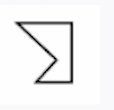
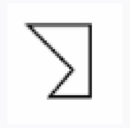
captured, updated, resized, coded and added to scripts 64 images in rotation test part 1

Changed region(s): [[0.1053, 0.1636, 0.7105, 0.7909]]

diff --git a/front-end/src/pages/rotation-test-part-1.js b/front-end/src/pages/rotation-test-part-1.js
@@ -1,0 +1,193 @@
+import React, { useState } from "react";
+import { useNavigate } from "react-router-dom";
+import '../components/styles_css/PageStyle.css'; 
+import '../components/styles_css/RotationTestStyle.css';
+
+import Part1Question1 from '../images/rotation_test/rotation-test-part-1/question-1/part-1-question-1.png';
+import Part1Question1Answer1Option1 from '../images/rotation_test/rotation-test-part-1/question-1/answer-1.png'; 
+import Part1Question1Answer1Option2 from '../images/rotation_test/rotation-test-part-1/question-1/answer-2.png'; 
+import Part1Question1Answer1Option3 from '../images/rotation_test/rotation-test-part-1/question-1/answer-3.png'; 
+import Part1Question1Answer1Option4 from '../images/rotation_test/rotation-test-part-1/question-1/answer-4.png'; 
+import Part1Question1Answer1Option5 from '../images/rotation_test/rotation-test-part-1/question-1/answer-5.png'; 
+import Part1Question1Answer1Option6 from '../images/rotation_test/rotation-test-part-1/question-1/answer-6.png'; 
+import Part1Question1Answer1Option7 from '../images/rotation_test/rotation-test-part-1/question-1/answer-7.png'; 
+import Part1Question1Answer1Option8 from '../images/rotation_test/rotation-test-part-1/question-1/answer-8.png'; 
+
+import Part1Question2 from '../images/rotation_test/rotation-test-part-1/question-2/part-1-question-2.png';
+import Part1Question2Answer1Option1 from '../images/rotation_test/rotation-test-part-1/question-2/answer-1.png'; 
+import Part1Question2Answer1Option2 from '../images/rotation_test/rotation-test-part-1/question-2/answer-2.png'; 
+import Part1Question2Answer1Option3 from '../images/rotation_test/rotation-test-part-1/question-2/answer-3.png'; 
+import Part1Question2Answer1Option4 from '../images/rotation_test/rotation-test-part-1/question-2/answer-4.png'; 
+import Part1Question2Answer1Option5 from '../images/rotation_test/rotation-test-part-1/question-2/answer-5.png'; 
+import Part1Question2Answer1Option6 from '../images/rotation_test/rotation-test-part-1/question-2/answer-6.png'; 
+import Part1Question2Answer1Option7 from '../images/rotation_test/rotation-test-part-1/question-2/answer-7.png'; 
+import Part1Question2Answer1Option8 from '../images/rotation_test/rotation-test-part-1/question-2/answer-8.png'; 
+
+import Part1Question3 from '../images/rotation_test/rotation-test-part-1/question-3/part-1-question-3.png';
+import Part1Question3Answer1Option1 from '../images/rotation_test/rotation-test-part-1/question-3/answer-1.png'; 
+import Part1Question3Answer1Option2 from '../images/rotation_test/rotation-test-part-1/question-3/answer-2.png'; 
+import Part1Question3Answer1Option3 from '../images/rotation_test/rotation-test-part-1/question-3/answer-3.png'; 
+import Part1Question3Answer1Option4 from '../images/rotation_test/rotation-test-part-1/question-3/answer-4.png'; 
+import Part1Question3Answer1Option5 from '../images/rotation_test/rotation-test-part-1/question-3/answer-5.png'; 
+import Part1Question3Answer1Option6 from '../images/rotation_test/rotation-test-part-1/question-3/answer-6.png'; 
+import Part1Question3Answer1Option7 from '../images/rotation_test/rotation-test-part-1/question-3/answer-7.png'; 
+import Part1Question3Answer1Option8 from '../images/rotation_test/rotation-test-part-1/question-3/answer-8.png';
+
+
+import Part1Question4 from '../images/rotation_test/rotation-test-part-1/question-4/part-1-question-4.png';
+import Part1Question4Answer1Option1 from '../images/rotation_test/rotation-test-part-1/question-4/answer-1.png'; 
+import Part1Question4Answer1Option2 from '../images/rotation_test/rotation-test-part-1/question-4/answer-2.png'; 
+import Part1Question4Answer1Option3 from '../images/rotation_test/rotation-test-part-1/question-4/answer-3.png'; 
+import Part1Question4Answer1Option4 from '../images/rotation_test/rotation-test-part-1/question-4/answer-4.png'; 
+import Part1Question4Answer1Option5 from '../images/rotation_test/rotation-test-part-1/question-4/answer-5.png'; 
+import Part1Question4Answer1Option6 from '../images/rotation_test/rotation-test-part-1/question-4/answer-6.png'; 
+import Part1Question4Answer1Option7 from '../images/rotation_test/rotation-test-part-1/question-4/answer-7.png'; 
+import Part1Question4Answer1Option8 from '../images/rotation_test/rotation-test-part-1/question-4/answer-8.png'; 
+
+import Part1Question5 from '../images/rotation_test/rotation-test-part-1/question-5/part-1-question-5.png';
+import Part1Question5Answer1Option1 from '../images/rotation_test/rotation-test-part-1/question-5/answer-1.png'; 
+import Part1Question5Answer1Option2 from '../images/rotation_test/rotation-test-part-1/question-5/answer-2.png'; 
+import Part1Question5Answer1Option3 from '../images/rotation_test/rotation-test-part-1/question-5/answer-3.png'; 
+import Part1Question5Answer1Option4 from '../images/rotation_test/rotation-test-part-1/question-5/answer-4.png'; 
+import Part1Question5Answer1Option5 from '../images/rotation_test/rotation-test-part-1/question-5/answer-5.png'; 
+import Part1Question5Answer1Option6 from '../images/rotation_test/rotation-test-part-1/question-5/answer-6.png'; 
+import Part1Question5Answer1Option7 from '../images/rotation_test/rotation-test-part-1/question-5/answer-7.png'; 
+import Part1Question5Answer1Option8 from '../images/rotation_test/rotation-test-part-1/question-5/answer-8.png';
+
+import Timer from "../components/Timer"; 
+import '../components/styles_css/PageStyle.css'; 
+
+const RotationTestPart1 = () => {
+    const navigate = useNavigate();
+
+    // State to manage timer visibility
+    const [timerVisible, setTimerVisible] = useState(true);
+
+    const handleNext = () => {
+        navigate("/proceed-to-part2");
+    };
+
+    const handleTimerCompletion = () => {
+        // setTimerVisible(false); 
+        navigate("/proceed-to-part2"); //if a breather is needed in between we can add it 
+    };
+
+    const question1 = Part1Question1; 
+    const question1Answers = [
+        Part1Question1Answer1Option1, Part1Question1Answer1Option2, Part1Question1Answer1Option3, Part1Question1Answer1Option4, 
+        Part1Question1Answer1Option5, Part1Question1Answer1Option6, Part1Question1Answer1Option7, Part1Question1Answer1Option8
+    ];
+
+    const question2 = Part1Question2; 
+    const question2Answers = [
+        Part1Question2Answer1Option1, Part1Question2Answer1Option2, Part1Question2Answer1Option3, Part1Question2Answer1Option4,
+        Part1Question2Answer1Option5, Part1Question2Answer1Option6, Part1Question2Answer1Option7, Part1Question2Answer1Option8
+    ];
+
+    const question3 = Part1Question3; 
+    const question3Answers = [
+        Part1Question3Answer1Option1, Part1Question3Answer1Option2, Part1Question3Answer1Option3, Part1Question3Answer1Option4,
+        Part1Question3Answer1Option5, Part1Question3Answer1Option6, Part1Question3Answer1Option7, Part1Question3Answer1Option8
+    ];
+
+    const question4 = Part1Question4; 
+    const question4Answers = [
+        Part1Question4Answer1Option1, Part1Question4Answer1Option2, Part1Question4Answer1Option3, Part1Question4Answer1Option4,
+        Part1Question4Answer1Option5, Part1Question4Answer1Option6, Part1Question4Answer1Option7, Part1Question4Answer1Option8
+    ];
+
+    const question5 = Part1Question5; 
+    const question5Answers = [
+        Part1Question5Answer1Option1, Part1Question5Answer1Option2, Part1Question5Answer1Option3, Part1Question5Answer1Option4,
+        Part1Question5Answer1Option5, Part1Question5Answer1Option6, Part1Question5Answer1Option7, Part1Question5Answer1Option8
+    ];
+
+    const [answers, setAnswers] = useState({
+        question1: Array(question1Answers.length).fill(null),
+        question2: Array(question2Answers.length).fill(null),
+        question3: Array(question3Answers.length).fill(null),
+        question4: Array(question4Answers.length).fill(null),
+        question5: Array(question5Answers.length).fill(null),
+    });
+
+    const handleAnswerChange = (questionNumber, index, value) => {
+        const newAnswers = { ...answers };
+        newAnswers[questionNumber][index] = value;
+        setAnswers(newAnswers);
+    };    
+
+    const allAnswered = Object.values(answers).every(question => question.every(answer => answer !== null));
+
+    const renderQuestion = (questionImage, answerImages, questionNumber) => (
+        <>
+            <div className="question-image-container">
+                <img src={questionImage} alt={`Question ${questionNumber}`} className="question-main-image" />
+            </div>
+            <table className="answers-table">
+                <thead>
+                    <tr>
+                        <th></th> {/* Empty header for the labels 'Same' and 'Different' */}
+                        {answerImages.map((imgSrc, index) => (
+                            <th key={`header-${index}`}>
+                                <img src={imgSrc} alt={`Answer ${index + 1}`} />
+                            </th>
+                        ))}
+                    </tr>
+                </thead>
+                <tbody>
+                    <tr>
+                        <td>Same</td>
+                        {answerImages.map((_, index) => (
+                            <td key={`same-${index}`}>
+                                    <input type="radio" name={`question${questionNumber}answer${index + 1}`} value="same"
+                                        onChange={() => handleAnswerChange(`question${questionNumber}`, index, 'same')} />
+                            </td>
+                        ))}
+                    </tr>
+                    <tr>
+                        <td>Different</td>
+                        {answerImages.map((_, index) => (
+                            <td key={`different-${index}`}>
+                                <input type="radio" name={`question${questionNumber}answer${index + 1}`} value="different" 
+                                    onChange={() => handleAnswerChange(`question${questionNumber}`, index, 'different')} />
+                            </td>
+                        ))}
+                    </tr>
+                </tbody>
+            </table>
+        </>
+    ); 
+
+    return (
+        <div className="container">
+            <br />
+            <h2>Rotation Test Part 1: 3 minutes</h2>
+            <br />
+            {timerVisible && <Timer initialTime={180} onCompletion={handleTimerCompletion} />}
+            <br />
+            <br />
+                {renderQuestion(question1, question1Answers, 1)}
+            <br />
+            <br />
+                {renderQuestion(question2, question2Answers, 2)}
+            <br />
+            <br />
+                {renderQuestion(question3, question3Answers, 3)}
+            <br />
+            <br />
+                {renderQuestion(question4, question4Answers, 4)}
+            <br />
+            <br />
+                {renderQuestion(question5, question5Answers, 5)}
+            <br />
+            <br />
+            <br />
+            <br />
+            {/* Next button */}
+            <button className="button" onClick={handleNext} disabled={!allAnswered}> Next </button>
+        </div>
+
+            );
+    };
+
+export default RotationTestPart1;

diff --git a/front-end/src/components/styles_css/RotationTestStyle.css b/front-end/src/components/styles_css/RotationTestStyle.css
@@ -9,12 +9,15 @@
   
   .question-image-container img {
     display: inline-block; /* This makes the image respect text-align from its parent */
-    max-width: 70%; /* Ensures the image doesn’t exceed its container’s width */
-    height: auto; /* Maintains the aspect ratio of the image */
+    /* max-width: 70%; Ensures the image doesn’t exceed its container’s width */
+    /* height: auto; Maintains the aspect ratio of the image */
+    object-fit: cover; /* Ensures the image covers the specified area, may crop as needed */
+    margin: 0 auto 20px; /* Center the image horizontally and add margin below */
+    width: 120px;
+    height: 120px;
   }
 
 .answers-table {
-  width: 100%;
   border-collapse: collapse; /* Eliminates the space between the borders */
   margin-left: 30px; 
 }
@@ -29,9 +32,12 @@
   background-color: #f2f2f2; /* Light grey background for headers */
 }
 
-.answer-image-header img {
-  width: 40px; 
-  height: auto;
+.answers-table th img {
+  width: 100px;
+  height: 100px;
+  object-fit: cover; /* Ensures the image covers the specified area, may crop as needed */
+  display: inline-block; /* This makes the image respect text-align from its parent */
+  margin: auto; /* Center the image within the table header */
 }
 
 .sample_test img {

diff --git a/front-end/src/App.js b/front-end/src/App.js
@@ -19,6 +19,8 @@ import ProceedToPart2 from "./pages/proceed-to-part2";
 import ConsentPage from "./pages/again-consent-page";
 import ExitSurveyPage from "./pages/exit-survey-page";
 import RotationTest from "./pages/rotation-test";
+import ProceedToPart1RotationTest from "./pages/proceed-to-part1-rotation-test";
+import RotationTestPart1 from "./pages/rotation-test-part-1";
 
 function App() {
     return (
@@ -42,6 +44,8 @@ function App() {
                         <Route path="/again-consent-page" element={<ConsentPage />} /> 
                         <Route path="/exit-survey-page" element={<ExitSurveyPage />} /> 
                         <Route path="/rotation-test" element={<RotationTest />} /> 
+                        <Route path="/proceed-to-part1-rotation-test" element={<ProceedToPart1RotationTest />} /> 
+                        <Route path="/rotation-test-part-1" element={<RotationTestPart1 />} /> 
                     </Routes>
                 </MainContent>
             </div>

diff --git a/front-end/src/pages/proceed-to-part1-rotation-test.js b/front-end/src/pages/proceed-to-part1-rotation-test.js
@@ -1,0 +1,24 @@
+import React, { useState } from "react";
+import { useNavigate } from "react-router-dom"; 
+import '../components/styles_css/PageStyle.css'; 
+
+const ProceedToPart2 = () => {
+    const navigate = useNavigate(); 
+
+    const handleNext = () => {
+        navigate("/rotation-test-part-1");
+    };
+
+    return (
+        <div className="container">
+            <h3>Please click Next when you are ready to start part 1 of the Rotation Test.</h3>
+            <button 
+                className="button" 
+                onClick={handleNext}> 
+                Next 
+            </button>
+        </div>
+    );
+};
+
+export default ProceedToPart2;

diff --git a/front-end/src/components/Title.js b/front-end/src/components/Title.js
@@ -4,7 +4,7 @@ import '../components/styles_css/Title.css'
 function Title() {
   return (
     <div className="title-container">
-      <h1> Spatial Visualization Analysis : A Behavioural Analysis Experiment </h1>
+      <h1> Experiment : Math Ninja </h1>
     </div>
   );
 }

diff --git a/front-end/src/pages/rotation-test.js b/front-end/src/pages/rotation-test.js
@@ -33,7 +33,7 @@ const RotationTestQuestion = () => {
     const navigate = useNavigate();
 
     const handleNext = () => {
-        navigate("/proceed-to-part2");
+        navigate("/proceed-to-part1-rotation-test");
     };
 
     const question1 = rotation_question_1; 
